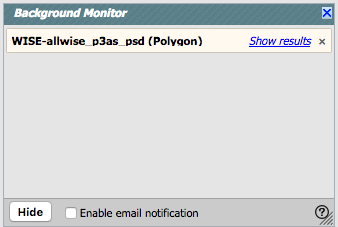
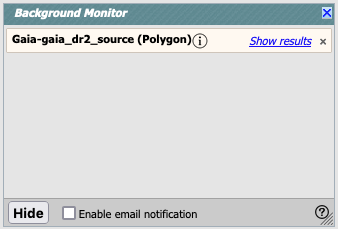
about to walk away from computer, checking in because paranoid

Changed region(s): [[0.0, 0.8634, 1.0, 1.0], [0.0296, 0.0308, 0.9763, 0.2159], [0.7396, 0.1542, 0.9763, 0.2159]]

diff --git a/html/firefly/tables.html b/html/firefly/tables.html
@@ -18,7 +18,9 @@ being the ability to sort and filter. If you also have <a
 href="visualization.html">Visualization</A> capability installed, you
 can overlay catalogs on images. If you also have <a
 href="plots.html">plotting</A> capability installed, you can make
-plots of your table.<P>
+plots of your table.  One specific application of Firefly tables is
+astronomical catalogs; see the <a href="catalogs.html">catalogs
+section</A>. <P>
 
 
 <em>Contents of page/chapter:</em><br>
@@ -26,6 +28,7 @@ plots of your table.<P>
 +<A href="#columns">Table Columns</A>  <br>
 +<A href="#filters">Table Filters</A>  <br>
 +<A href="#save">Saving Tables</A>  <br>
++<a href="#navigation">Table Navigation</A> <br>
 <P>&nbsp;<P>
 
 
@@ -80,7 +83,16 @@ section below</A>.<P>
 
 You may or may not see the next icon: <img src="img/infolink.png">
 This is an "information" button and, if it exists, it may provide
-addtional information about the table.<P>
+addtional information about the table. It could have information about
+the job that was used to retrieve it:<br>
+<img src="img/tableinfo-jobinfo.png"><br>
+where the direct link to the job is given there (and can be copied by
+clicking on the clipboard, ready to be pasted into a helpdesk query,
+for example), with a job id as shown. It could also just have
+information about the table metadata:<br>
+<img src="img/tableinfo-metadata.png"><br>
+where the information about this table includes information about the
+query that produced it.<P>
 
 The next option on the top of the catalog tab is this: <img
 src="img/tableoptions.png">.  Clicking on this icon brings up options
@@ -100,7 +112,9 @@ src="img/expand-24x24.png">. Clicking on this expands the catalog
 window pane to take up the entire browser window. To return to the
 prior view, click on "Close" in the upper left.<P>
 
-The last option on the top of the catalog tab may be a context-sensitive help marker <img src="img/help.png">, which should bring you to this online help.<P>
+The last option on the top of the catalog tab may be a
+context-sensitive help marker <img src="img/help.png">, which should
+bring you to this online help.<P>
 
 
 <h3><A name="columns">Table Columns</A></h3>
@@ -265,13 +279,10 @@ resized such that you can see the whole set of hints and imposed
 filters. Note that in this interface, column headers must be enclosed
 within double quotes.<P>
 
-The third tab is just the table metadata:<br>
-<img src="img/tablemetadata.png" width="25%"><P>
 
 
 
-
-<strong>Tips and Troubleshooting</strong>:
+<strong>Tips and Troubleshooting</strong>
 
 <UL>
 <LI>If you impose logically inconsistent restrictions such as
@@ -368,10 +379,37 @@ href="https://irsa.ipac.caltech.edu/applications/Gator/"
 target="_blank">IRSA General Catalog Query Engine <img
 src="img/jumpout.jpg" height="10"></A>, powered by Gator.<P>
 
-<h3><a name="catalogs">Catalogs</A></h3>
 
-One specific application of Firefly tables is astronomical catalogs.
-See the <a href="catalogs.html">catalogs section</A> <P>
+
+<h3><A name="navigation">Table Navigation</A></h3>
+
+With the ability to <a href="visualization.html#extraction">extract
+data</A> from images comes the ability to rather quickly drown in
+tables. There is a way to navigate among a lot of table tabs that have
+accumulated.<P>
+
+This is probably best explained via an example. Here, I have tabs
+showing that I have <a
+href="visualization.html#extraction">extracted</A> several lines,
+drills, and points from my images:<br>
+<img src="img/tabnav1.png" height="30"><br>
+On the far right, I have a downward pointing arrow. When I click on
+this, I get a pulldown:<br>
+<img src="img/tabnav2.png"><br>
+This pulldown shows that the tab marked "Points 14" is in the
+foreground (it is shaded yellow) and it has a filter box at the top.
+That filter box at the top works just like the filters discussed <a
+href="#filters">above</A>, so if I want to find the tabs with the
+extracted lines, I can type "line" in the box, and it will filter down
+the list, leaving only those tabs with "line" in the name:<br>
+<img src="img/tabnav3.png"><br>
+Then, from there, I can select the tab I want to bring to the
+foreground. (When I select a tab to bring to the foreground, that tab
+is also in the foreground for plotting.)<P>
+
+In this fashion, you can navigate among many tabs that are open at the
+same time.<P>
+
 
 
 

diff --git a/html/firefly/catalogs.html b/html/firefly/catalogs.html
@@ -159,7 +159,7 @@ object in the plot shows it in the table and on the image.<P>
 To close the catalog search window without searching for a catalog,
 click on "Cancel".<P>
 
-<strong>Tips and Troubleshooting.</strong> 
+<strong>Tips and Troubleshooting</strong> 
 <UL>
 <LI>If the catalog search is successful quickly, it will promptly return
 the results in a tab of its own. 
@@ -371,7 +371,7 @@ the file into the tool.<P>
 
 
 
-<strong>Tips and Troubleshooting.</strong> 
+<strong>Tips and Troubleshooting</strong> 
 <UL>
 <LI>If you would like to have your catalog overlaid on an image,
 it needs to have RA and Dec columns. If the tool doesn't seem to
@@ -435,7 +435,7 @@ IRSA-exclusive search. Then, having selected that, the pull-down menu
 on the right changes to reflect the tables available under that
 schema. <P>
 
-<strong>Troubleshooting</strong>: Not every table available via this
+<strong>Tips and Troubleshooting</strong>: Not every table available via this
 interface even has RA/Dec or, if it does, it may not be searchable via
 positions. Make sure that you have selected a table that contains what
 you need before proceeding past this step.<P>
@@ -491,7 +491,7 @@ to edit it further. <P>
 Examples of useful functions and queries are given on the lower
 right.<P>
 
-<strong>Troubleshooting</strong>: If you have arrived at this page
+<strong>Tips and Troubleshooting</strong>: If you have arrived at this page
 from the "Populate and edit ADQL" button, this is a one-way trip --
 any changes you make to the ADQL here are NOT transmitted
 automatically back to the "Single Table (UI Assisted)" query page.<P>
@@ -683,7 +683,7 @@ endpoints for the standard interface." Copy that URL and paste it into
 the search form. The IRSA tool will append your coordinates and radius
 and return you a table.<P>
 
-<strong>Tips and Troubleshooting.</strong> 
+<strong>Tips and Troubleshooting</strong> 
 <UL>
 <LI>
 Note that searching the VO means that you are using resources not

diff --git a/html/firefly/basics.html b/html/firefly/basics.html
@@ -82,10 +82,13 @@ have already loaded. Remove them from the list by clicking on the blue
 If you have made, say, a large catalog request and don't want the
 pending catalog request to occupy screen space while it loads, you can
 click on the button marked "send to background" to reclaim your screen
-space. When the background monitor finishes, however, you will have to
-actively tell it to display results (it doesn't do it automatically).
-You can ask it to send you email when it is ready. 
-<P>
+space, seen here:<br>
+<img src="img/background-sendto.png"><br>
+When the background monitor finishes, however, you will have to
+actively tell it to display results;it doesn't do it automatically if
+you have sent it to the background.
+You can ask it to send you email when it is ready by clicking on the
+"enable email notification" and giving it an email address. <P>
 
 To stop any query mid-way through, click on the little red octagon
 ("stop sign") that appears next to the query in the Background Monitor
@@ -95,6 +98,18 @@ If you forgot to put in your email at the beginning, or if the
 packaging is taking longer than you expected, you can click on "Enable
 email notification" from the bottom of the Background Monitor popup
 and add your email during the packaging process. <P>
+
+If you forgot to put in your email at the beginning, or if the
+packaging is taking longer than you expected, you can click on "Enable
+email notification" from the bottom of the Background Monitor popup
+and add your email during the packaging process. <P>
+
+If you are having technical difficulties, click on the circle with an
+"i" in it to get additional information, like this:<br>
+<img src="img/backgroundinfo.png"><br>
+In this case, the job is executing, at the time as given, the link is
+given there (and can be copied by clicking on the clipboard, ready to
+be pasted into a helpdesk query), with a job id as shown.<P>
 
 
 </BODY>

diff --git a/html/firefly/visualization.html b/html/firefly/visualization.html
@@ -33,6 +33,7 @@ in which you might encounter them in the window.<P>
 +<A href="#imageinfo">Image Information</a><br>
 +<A href="#toolbar">Image Toolbar</a><br>
 +<a href="#newimage">Information on Loading a New Image</A><br>
++<a href="#extraction">Extraction Tools</A><br>
 +<a href="#stretches">Information on Color Stretches</A><br>
 +<a href="#hipsViewer">Information on HiPS features</A><br>
 +<a href="#footprints">Footprints</A><br>
@@ -42,6 +43,7 @@ in which you might encounter them in the window.<P>
 Features</A><br>
 +<a href="#coverage">Coverage Image</A><br>
 +<a href="#autozoom">Automatic FITS-HiPS-Aitoff Transitions</A><br>
++<a href="#catalogload">"Catalog" loading</A><br>
 <P>&nbsp;<P>
 
 
@@ -688,7 +690,7 @@ information about the program or delivery, and more). <P>
 To actually complete the task as requested, choose the "Search" button
 in the lower left.<P>
 
-<strong>Tips and Troubleshooting</strong>.
+<strong>Tips and Troubleshooting</strong>
 <UL>
 <LI>You don't have to select something on the left side before
 selecting something on the right side. If you know exactly what you
@@ -751,7 +753,7 @@ cancel.<P>
 To change the color stretch of each color plane individually, click on
 the "<a href="#stretches">Color Stretch</A>" icon in the toolbox.<P>
 
-<strong>Tips and Troubleshooting.</strong> 
+<strong>Tips and Troubleshooting</strong> 
 <UL>
 <LI>You load all three images at once, e.g., you do NOT pick red,
 click search, then go back and pick green, click search, then go back
@@ -904,7 +906,7 @@ marker, depending on the nature of the marker. These handles only
 appear when the marker is selected as active; if you wait a few
 seconds, they vanish.<P>
 
-<strong>Troubleshooting and Tips:</strong> 
+<strong>Tips and Troubleshooting</strong> 
 <UL>
 <LI>Some of these footprints are <em>large</em>. If you have a small
 image, some of these footprints will be larger than your image. Zoom

diff --git a/html/firefly/about.html b/html/firefly/about.html
@@ -15,13 +15,14 @@ this is crazy good!
 <h2>About Firefly</h2>
 
 Firefly is an <a href="https://github.com/Caltech-IPAC/firefly"
-target="_blank">open source <img src="img/jumpout.jpg" height="10"></A>
-framework of archive components.  It provides an interactive web user interface
-for astronomers. It provides three major components: a table display, FITS/HiPS
-image visualization, and 2D plots. All three highly interactive components can
-work together using the same data model or separately to provide any combination
-of interactivity among them. Firefly components provide an easy way to add
-interactivity to an otherwise static web page.  <P>
+target="_blank">open source <img src="img/jumpout.jpg"
+height="10"></A> framework of archive components.  It provides an
+interactive web user interface for astronomers. It provides three
+major components: a table display, FITS/HiPS image visualization, and
+2D plots. All three highly interactive components can work together
+using the same data model or separately to provide any combination of
+interactivity among them. Firefly components provide an easy way to
+add interactivity to an otherwise static web page.  <P>
 
 The documentation here describes the components in generic terms. If
 you have specific questions about a specific implementation of

diff --git a/app/src/toc/firefly_toc.js b/app/src/toc/firefly_toc.js
@@ -253,6 +253,11 @@ export const toc_tables = {
             title: 'Saving Tables',
             href: 'firefly/tables.html#save',
         },
+        {
+            id: 'tables.navigation',
+            title: 'Table Navigation',
+            href: 'firefly/tables.html#navigation',
+        },
     ]
 };
 
